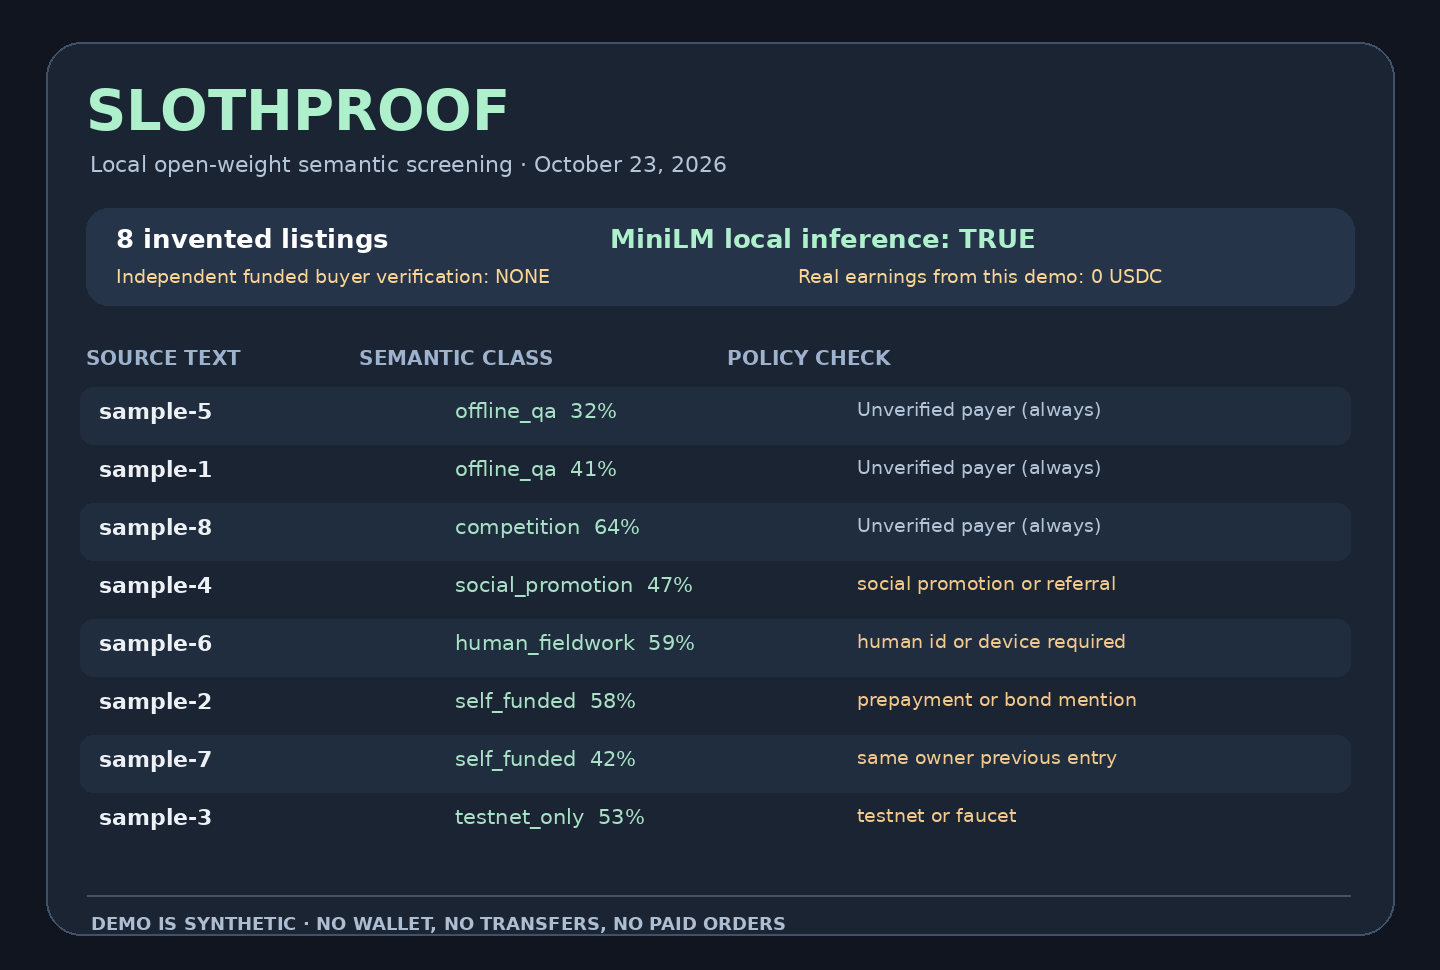
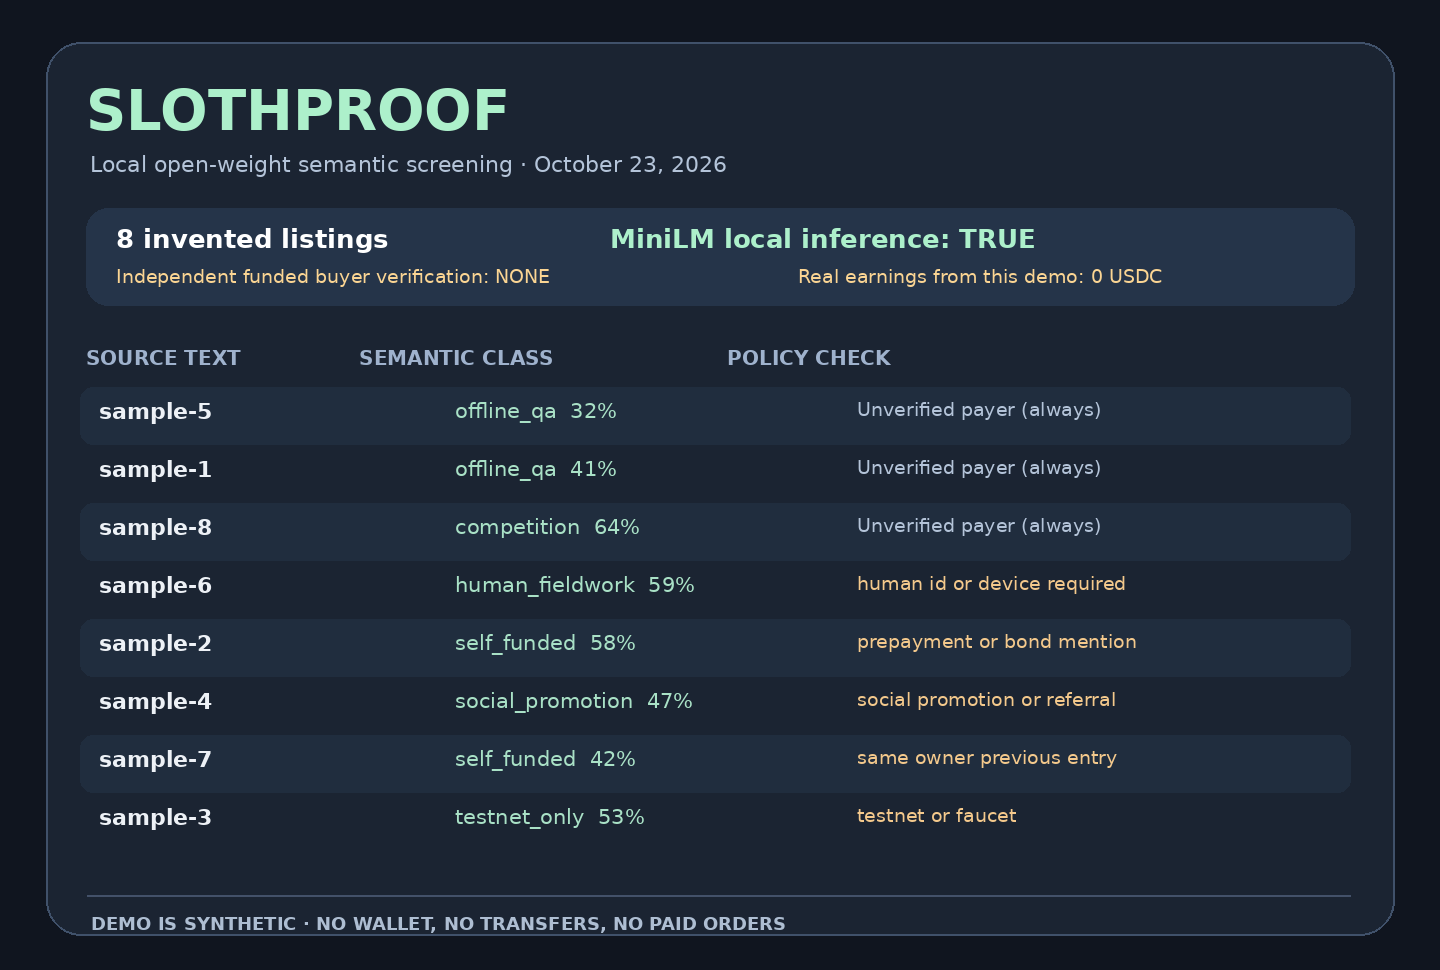
fix: make social promo a hard gate and bundle reproducible CLI preview

diff --git a/docs/index.html b/docs/index.html
@@ -50,6 +50,11 @@ code{border-radius:4px;background:#233044;padding:.15rem .35rem}pre{background:#
 <p class="caption">The semantic label comes from actual open-weight embedding similarity. Independent deterministic rules explain why a matching listing might still be unsafe or ineligible. All model scores are about <em>meaning</em>, not payouts.</p>
 <div class="layout" id="cards"></div>
 </section>
+<section aria-label="Actual original CLI output">
+<h2>Reproducible CLI evidence</h2>
+<p class="caption">This is rendered from the actual saved MiniLM inference JSON with the included Python script, not an imagined client payout.</p>
+<img src="./demo.png" alt="SlothProof synthetic eight-case MiniLM inference preview: 0 USDC earned, stop signals on testnet, deposit, human-only work and duplicate owner" loading="lazy" style="max-width:100%;height:auto;border-radius:.85rem;border:1px solid #303b4e">
+</section>
 <section>
 <h2>Three gates, not one seductive dollar sign</h2>
 <pre>1. SEMANTIC FIT: MiniLM proposes a topic (NOT a yes/no)
@@ -112,7 +117,7 @@ runBtn.addEventListener('click',async()=>{
   status.textContent='Loading the published open-weight model into your browser; first visit needs a model download. No job APIs, wallet or private inputs are contacted.';
   try{
     if(!example) await loadExamples();
-    const {pipeline,env}=await import('https://cdn.jsdelivr.net/npm/@huggingface/transformers@3.8.1');
+    const {pipeline,env}=await import('https://cdn.jsdelivr.net/npm/@huggingface/transformers@3.8.1/+esm');
     env.allowRemoteModels=true;
     const embed=await pipeline('feature-extraction',MODEL,{device:'wasm',dtype:'q8'});
     const terms=descriptions.map(d=>d[1]);

diff --git a/README.md b/README.md
@@ -20,6 +20,8 @@ The first run requires network access **only to fetch the model**; descriptions 
 
 The included 8 demo ads are synthetic and use example.invalid; they are NOT real jobs, customers, receipts, wallet assets or bounty offers.
 
+![Actual local MiniLM synthetic-demo output](docs/demo.png)
+
 ## Model is actually used
 
 - Model: Xenova/all-MiniLM-L6-v2 (a port of the 384-dimensional open-weight sentence embedding model; review the model card and its upstream license).
